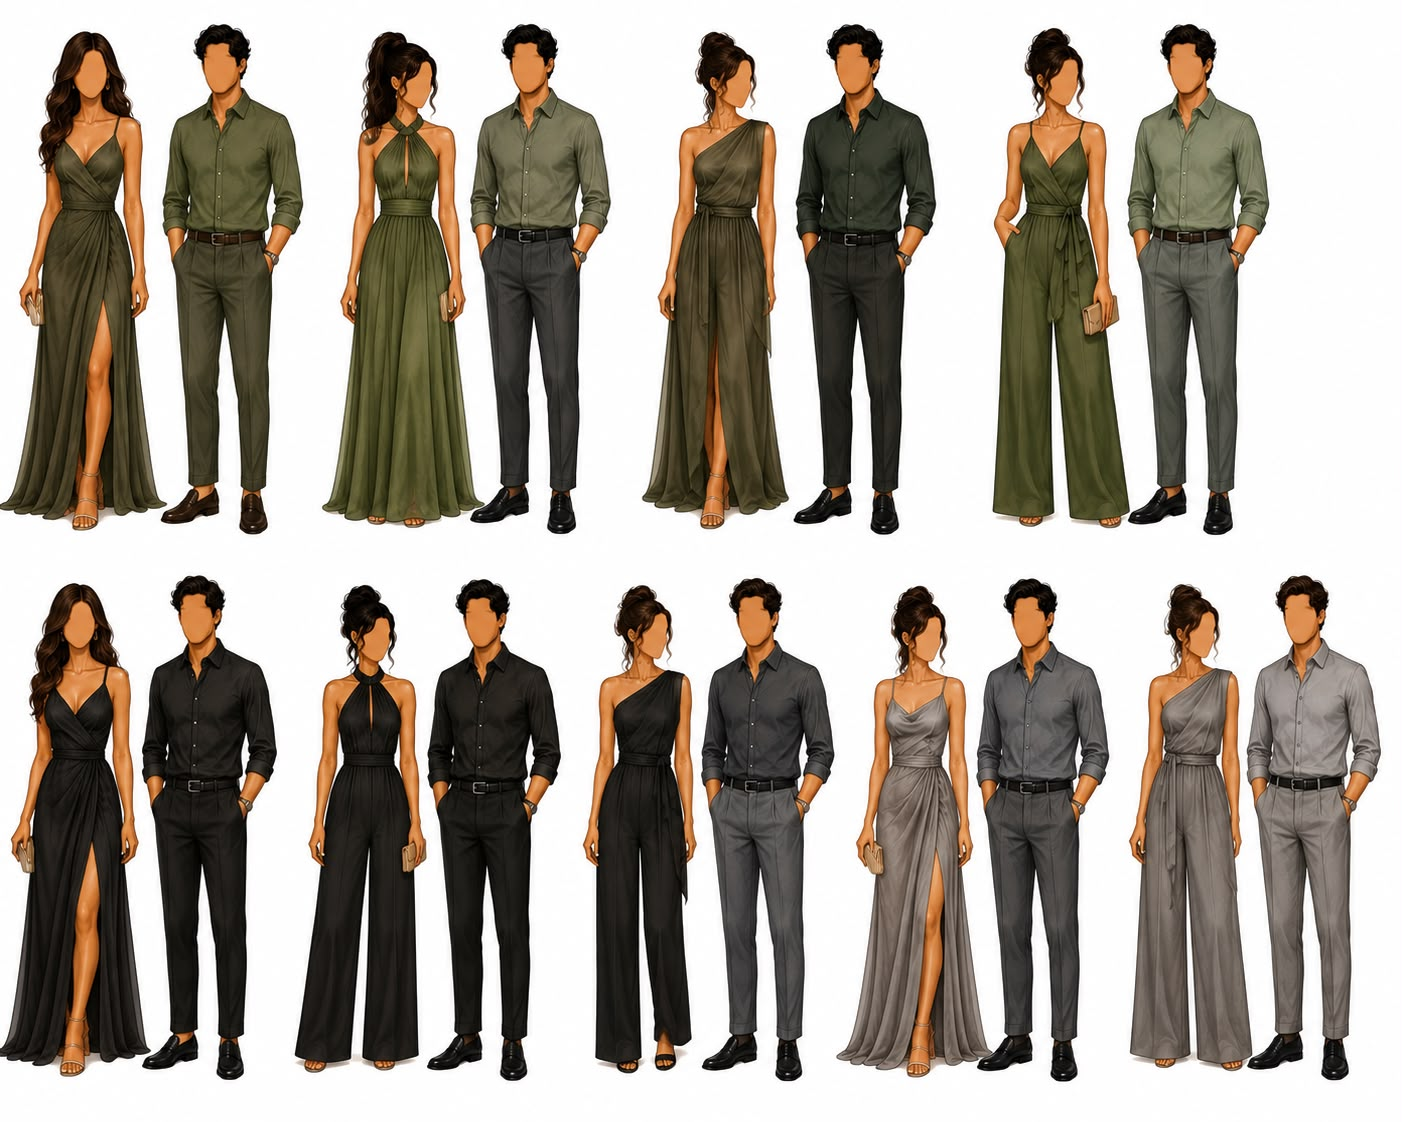
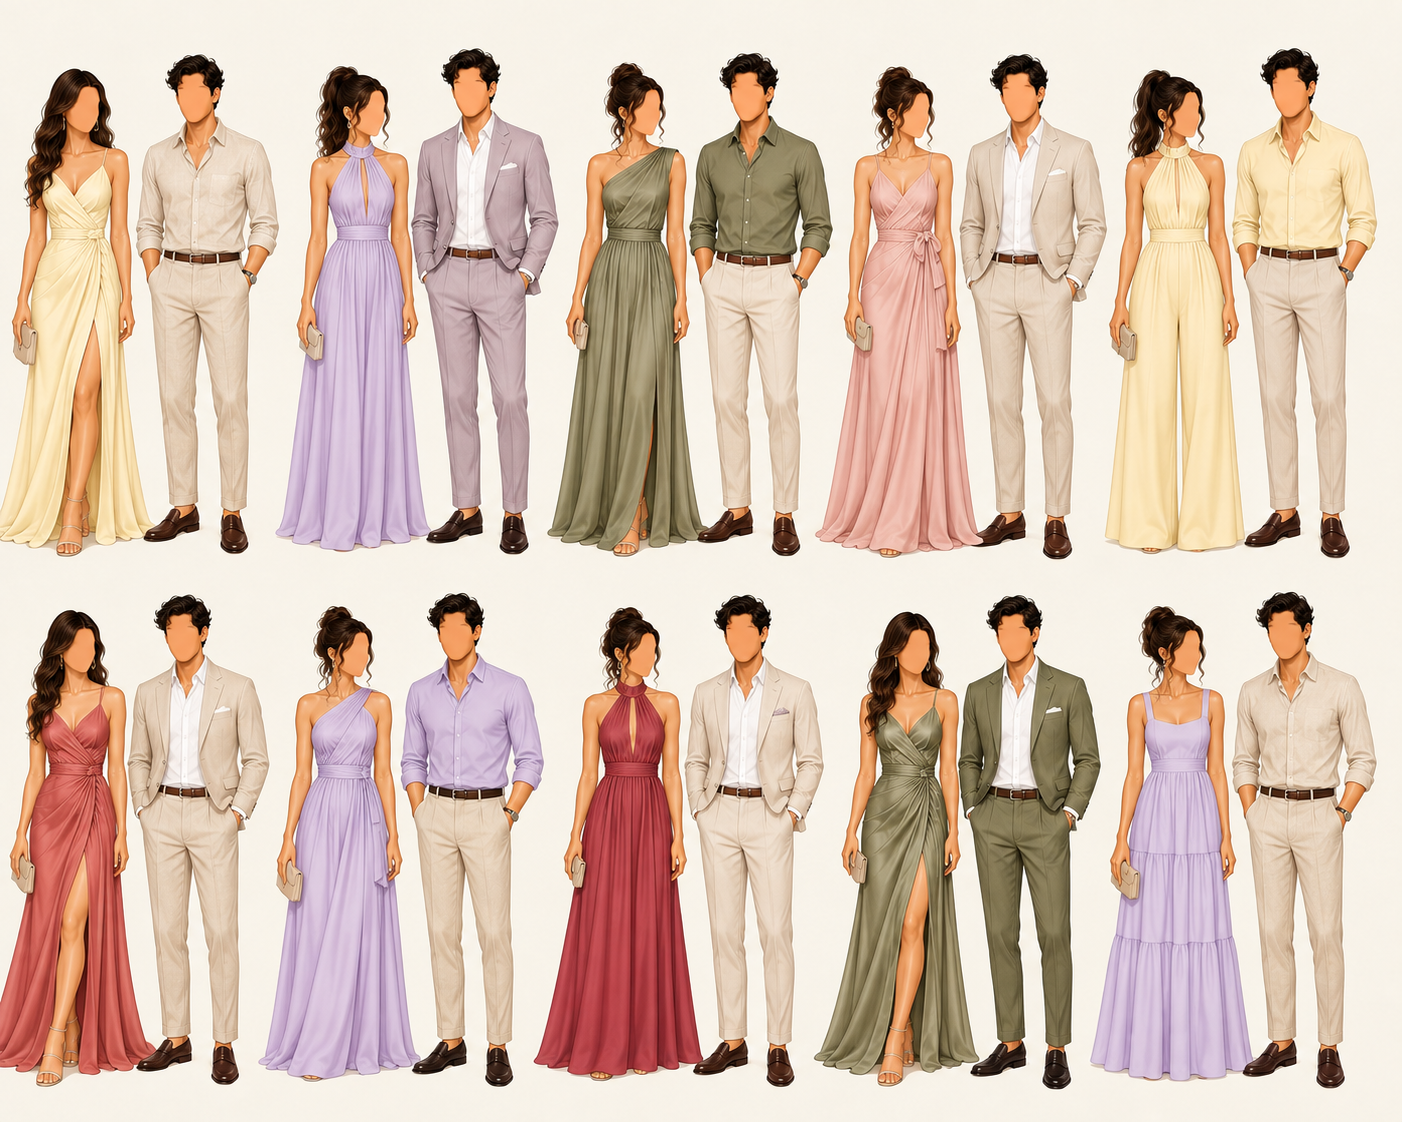
Atualizar paleta sugerida com tons pastéis (lilás, verde claro, vermelho claro, amarelo manteiga) e ajustar imagem do carrossel para object-cover
Generated with [Devin](https://devin.ai)

diff --git a/src/components/DressCode/PaletteSugerida.tsx b/src/components/DressCode/PaletteSugerida.tsx
@@ -17,10 +17,10 @@ export default function PaletteSugerida() {
       </p>
 
       <div className="mt-8 flex justify-center gap-4">
-        <div className="h-14 w-14 rounded-full bg-[#C1E1C1] shadow-inner" />
-        <div className="h-14 w-14 rounded-full bg-[#B8D4B8] shadow-inner" />
-        <div className="h-14 w-14 rounded-full bg-[#E8D5C4] shadow-inner" />
         <div className="h-14 w-14 rounded-full bg-[#E6E6FA] shadow-inner" />
+        <div className="h-14 w-14 rounded-full bg-[#C1E1C1] shadow-inner" />
+        <div className="h-14 w-14 rounded-full bg-[#FFB6C1] shadow-inner" />
+        <div className="h-14 w-14 rounded-full bg-[#F0E68C] shadow-inner" />
       </div>
     </div>
   );

diff --git a/src/components/DressCode/DressCodeCarousel.tsx b/src/components/DressCode/DressCodeCarousel.tsx
@@ -29,7 +29,7 @@ export default function DressCodeCarousel() {
             <img
               src="/images/dresscode.png"
               alt="Dress Code"
-              className="h-[320px] w-full object-contain p-4 sm:h-[450px]"
+              className="h-[320px] w-full object-cover sm:h-[450px]"
             />
           </div>
 
